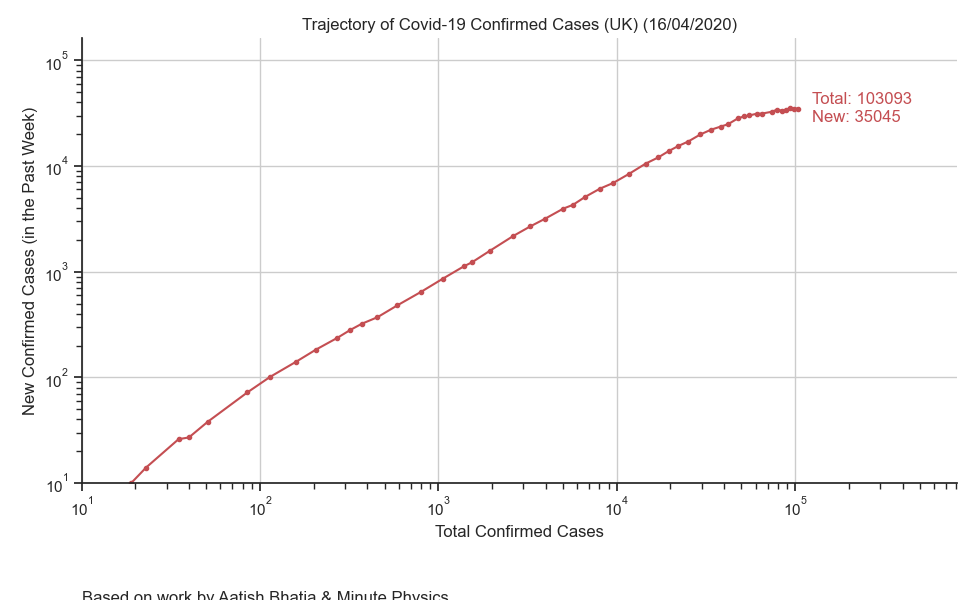
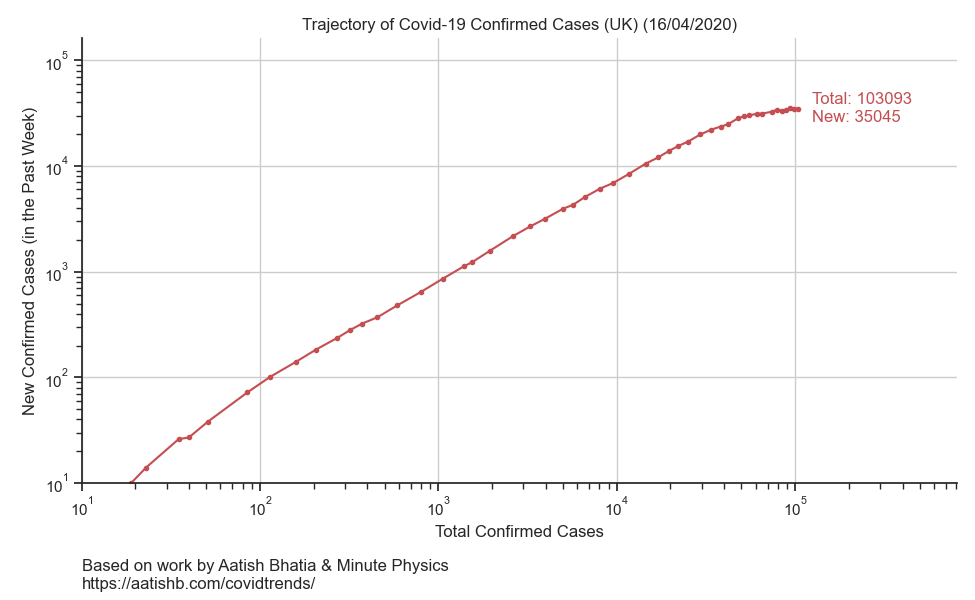
fix: text at bottom of chart cut-off

Changed region(s): [[0.0615, 0.93, 0.4615, 1.0]]

diff --git a/bin/plots.py b/bin/plots.py
@@ -163,7 +163,7 @@ def plot_new_v_total_cases(data, color, **kwargs):
     plt.title(f'Trajectory of Covid-19 Confirmed Cases (UK) ({today})')
     plt.text(
         10,
-        0.5,
+        1,
         ('Based on work by Aatish Bhatia & Minute Physics'
         '\nhttps://aatishb.com/covidtrends/')
     )
